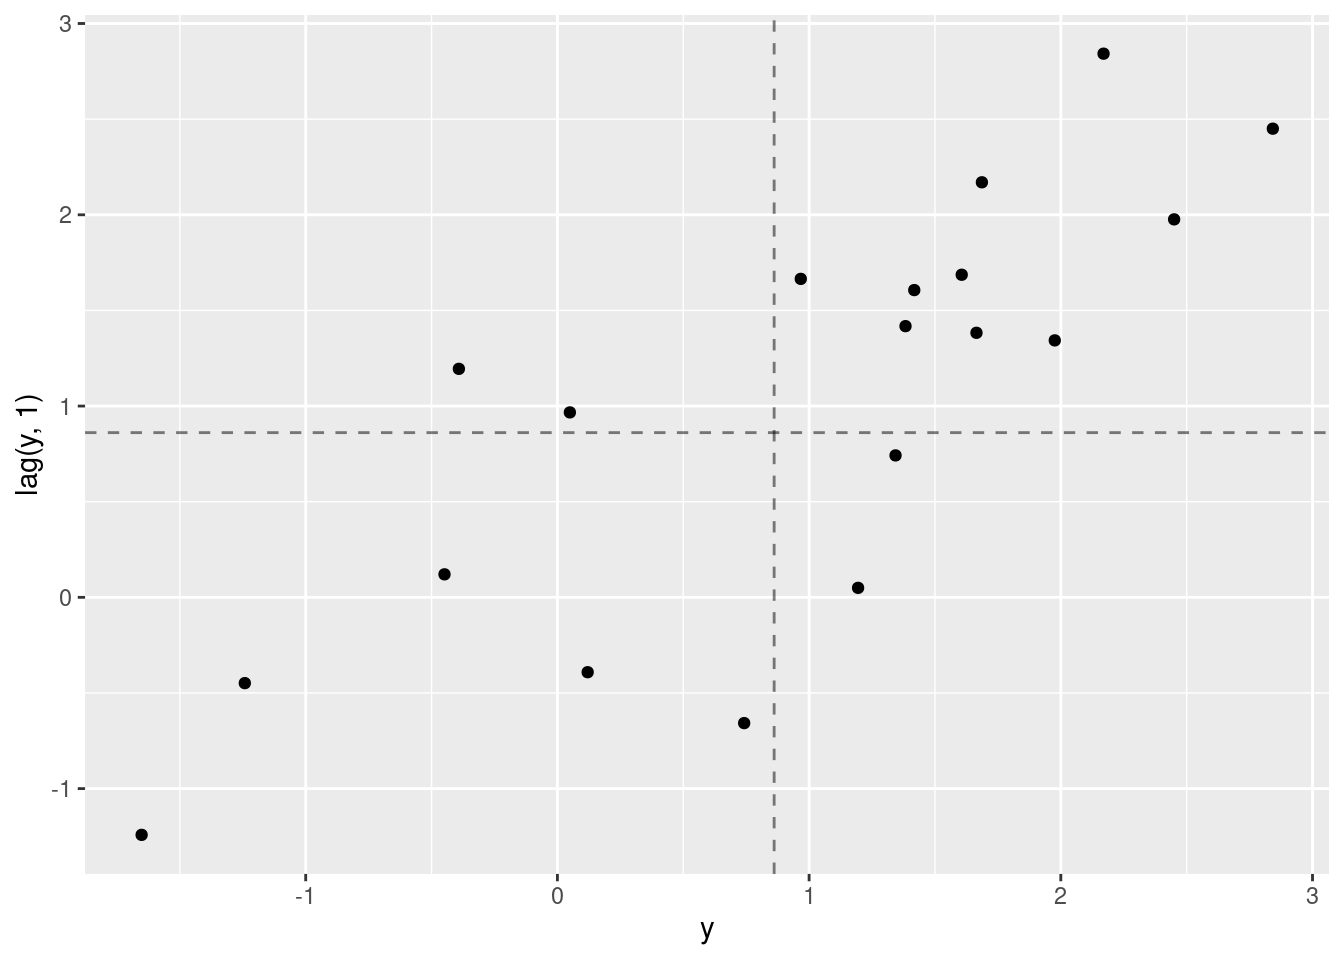
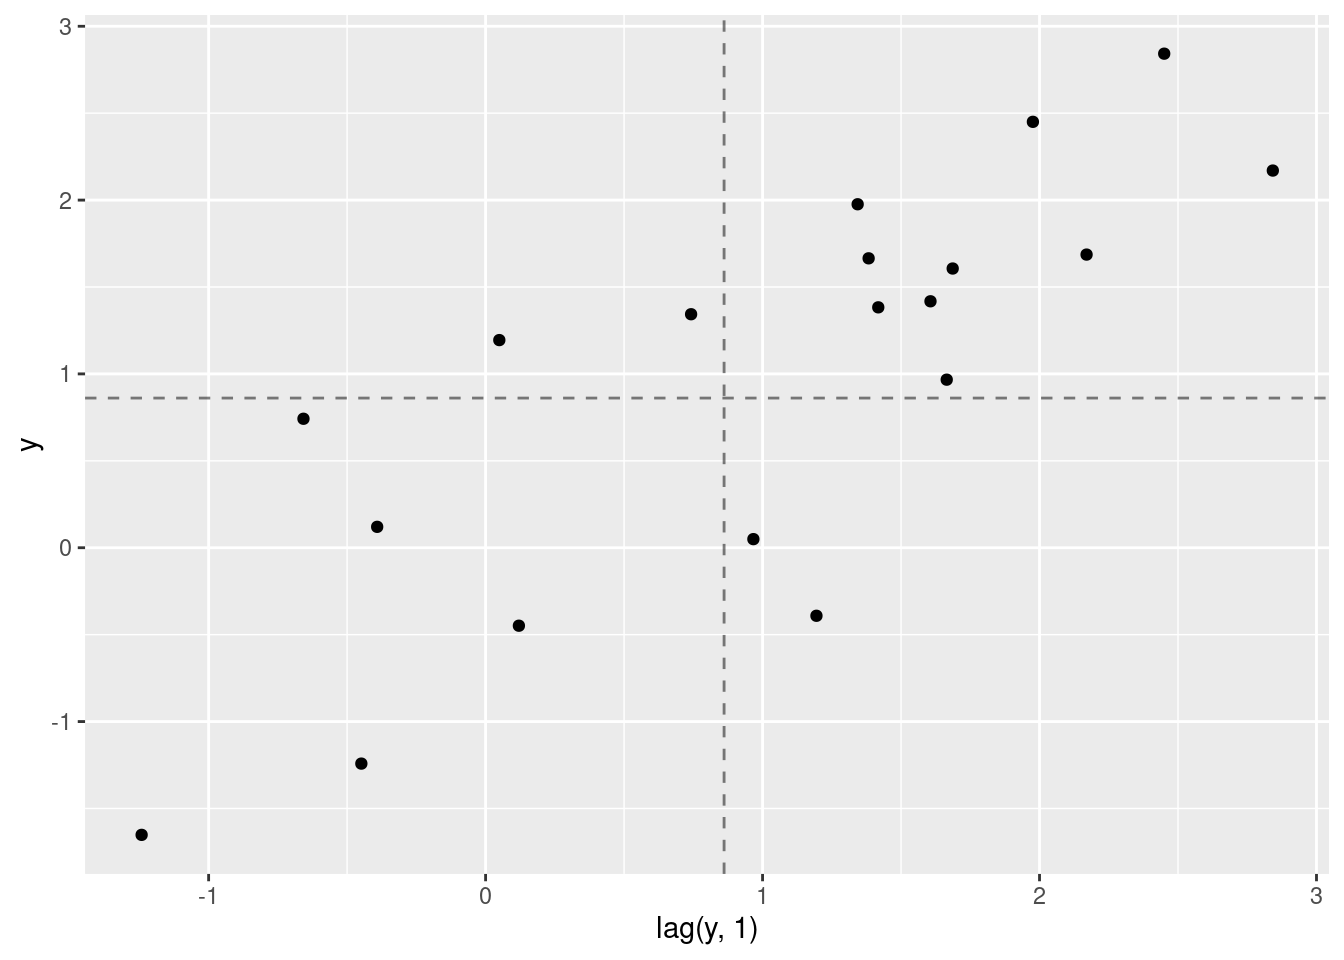
Add cor exercise, fix lat plots.

diff --git a/docs/02-Statistics-Review.html b/docs/02-Statistics-Review.html
@@ -1000,7 +1000,13 @@ Cov(X, Y) = E(XY).
 <div id="def-correlation" class="theorem definition">
 <p><span class="theorem-title"><strong>Definition 2.2 (Correlation) </strong></span><span class="math display">\[
 \rho(X, Y) = \frac{Cov(X, Y)}{\sqrt{Var(X)Var(Y)}}
+\]</span> It is easy to show that the correlation is bounded between -1 and 1.</p>
+<p><span class="math display">\[
+-1 \leq \rho(X, Y) \leq 1
 \]</span></p>
+</div>
+<div id="exr-corr-proof" class="theorem exercise">
+<p><span class="theorem-title"><strong>Exercise 2.7 (Correlation) </strong></span>Let X be a random variable with, and <span class="math inline">\(Y = a + bX\)</span>. Show that the correlation between <span class="math inline">\(X\)</span> and <span class="math inline">\(Y\)</span> equals one or minus one depending on the sign of <span class="math inline">\(b\)</span>. For simplicity, assume that <span class="math inline">\(E(X) = 0\)</span>.</p>
 </div>
 <div id="thm-covariance-props" class="theorem">
 <p><span class="theorem-title"><strong>Theorem 2.3 (Properties of the Covariance) </strong></span>Let <span class="math inline">\(X\)</span> and <span class="math inline">\(Y\)</span> be random variables and let <span class="math inline">\(a, b \in \mathbb{R}\)</span> be fixed constants.</p>
@@ -1009,7 +1015,7 @@ Var(aX + bY) = a^2 Var(X) + b^2Var(Y) + 2abCov(X, Y)
 \]</span></p>
 </div>
 <div id="exr-covariance" class="theorem exercise">
-<p><span class="theorem-title"><strong>Exercise 2.7 (Covariance) </strong></span>Compute the covariance of <span class="math inline">\(X\)</span> and <span class="math inline">\(Y\)</span> under the joint distributions given in <a href="#tbl-distr-indep">Table&nbsp;<span>2.5</span></a> and <a href="#tbl-distr-dep">Table&nbsp;<span>2.3</span></a>. Use the <code>pxy</code> and <code>pxy_ind</code> tables for these calculations.</p>
+<p><span class="theorem-title"><strong>Exercise 2.8 (Covariance) </strong></span>Compute the covariance of <span class="math inline">\(X\)</span> and <span class="math inline">\(Y\)</span> under the joint distributions given in <a href="#tbl-distr-indep">Table&nbsp;<span>2.5</span></a> and <a href="#tbl-distr-dep">Table&nbsp;<span>2.3</span></a>. Use the <code>pxy</code> and <code>pxy_ind</code> tables for these calculations.</p>
 </div>
 <div class="solution proof">
 <p><span class="proof-title"><em>Solution</em>. </span></p>
@@ -1018,7 +1024,7 @@ Var(aX + bY) = a^2 Var(X) + b^2Var(Y) + 2abCov(X, Y)
 </div>
 </div>
 <div id="exr-covariance-corr" class="theorem exercise">
-<p><span class="theorem-title"><strong>Exercise 2.8 (Variance of Correlated Variables) </strong></span>Compute the variance of <span class="math inline">\(2X - Y\)</span> using the same distributions as in <a href="#exr-covariance">Exercise&nbsp;<span>2.7</span></a>.</p>
+<p><span class="theorem-title"><strong>Exercise 2.9 (Variance of Correlated Variables) </strong></span>Compute the variance of <span class="math inline">\(2X - Y\)</span> using the same distributions as in <a href="#exr-covariance">Exercise&nbsp;<span>2.8</span></a>.</p>
 </div>
 </section>
 <section id="empirical-estimation-of-moments" class="level2" data-number="2.9">
@@ -1155,13 +1161,13 @@ y_t = \sum_{i = 1}^{t}e_i
 <p>Where do you find positive and negative cross-products in the plot?</p>
 <div class="cell">
 <div class="sourceCode cell-code" id="cb54"><pre class="sourceCode r code-with-copy"><code class="sourceCode r"><span id="cb54-1"><a href="#cb54-1" aria-hidden="true" tabindex="-1"></a>dt_sim <span class="sc">%&gt;%</span></span>
-<span id="cb54-2"><a href="#cb54-2" aria-hidden="true" tabindex="-1"></a>  <span class="fu">ggplot</span>(<span class="fu">aes</span>(<span class="at">x =</span> y, <span class="at">y =</span> y_l1)) <span class="sc">+</span></span>
+<span id="cb54-2"><a href="#cb54-2" aria-hidden="true" tabindex="-1"></a>  <span class="fu">ggplot</span>(<span class="fu">aes</span>(<span class="at">x =</span> y_l1, <span class="at">y =</span> y)) <span class="sc">+</span></span>
 <span id="cb54-3"><a href="#cb54-3" aria-hidden="true" tabindex="-1"></a>  <span class="fu">geom_point</span>() <span class="sc">+</span> </span>
 <span id="cb54-4"><a href="#cb54-4" aria-hidden="true" tabindex="-1"></a>  <span class="fu">geom_vline</span>(<span class="at">xintercept=</span>mean_y, <span class="at">lty=</span><span class="dv">2</span>, <span class="at">alpha =</span> <span class="fl">0.5</span>) <span class="sc">+</span> </span>
 <span id="cb54-5"><a href="#cb54-5" aria-hidden="true" tabindex="-1"></a>  <span class="fu">geom_hline</span>(<span class="at">yintercept=</span>mean_y, <span class="at">lty=</span><span class="dv">2</span>, <span class="at">alpha =</span> <span class="fl">0.5</span>) <span class="sc">+</span> </span>
 <span id="cb54-6"><a href="#cb54-6" aria-hidden="true" tabindex="-1"></a>  <span class="fu">labs</span>(</span>
-<span id="cb54-7"><a href="#cb54-7" aria-hidden="true" tabindex="-1"></a>    <span class="at">x =</span> <span class="st">"y"</span>,</span>
-<span id="cb54-8"><a href="#cb54-8" aria-hidden="true" tabindex="-1"></a>    <span class="at">y =</span> <span class="st">"lag(y, 1)"</span></span>
+<span id="cb54-7"><a href="#cb54-7" aria-hidden="true" tabindex="-1"></a>    <span class="at">x =</span> <span class="st">"lag(y, 1)"</span>,</span>
+<span id="cb54-8"><a href="#cb54-8" aria-hidden="true" tabindex="-1"></a>    <span class="at">y =</span> <span class="st">"y"</span></span>
 <span id="cb54-9"><a href="#cb54-9" aria-hidden="true" tabindex="-1"></a>  )</span></code><button title="Copy to Clipboard" class="code-copy-button"><i class="bi"></i></button></pre></div>
 <div class="cell-output cell-output-stderr">
 <pre><code>Warning: Removed 1 rows containing missing values (`geom_point()`).</code></pre>
@@ -1173,19 +1179,14 @@ y_t = \sum_{i = 1}^{t}e_i
 <p>The following code computes the covariance</p>
 <div class="cell">
 <div class="sourceCode cell-code" id="cb56"><pre class="sourceCode r code-with-copy"><code class="sourceCode r"><span id="cb56-1"><a href="#cb56-1" aria-hidden="true" tabindex="-1"></a><span class="co"># Compute the covariance</span></span>
-<span id="cb56-2"><a href="#cb56-2" aria-hidden="true" tabindex="-1"></a>cov_xy <span class="ot">&lt;-</span> <span class="fu">cov</span>(dt_sim<span class="sc">$</span>x, dt_sim<span class="sc">$</span>y)</span>
-<span id="cb56-3"><a href="#cb56-3" aria-hidden="true" tabindex="-1"></a>cov_xy</span></code><button title="Copy to Clipboard" class="code-copy-button"><i class="bi"></i></button></pre></div>
+<span id="cb56-2"><a href="#cb56-2" aria-hidden="true" tabindex="-1"></a><span class="fu">cov</span>(dt_sim<span class="sc">$</span>x, dt_sim<span class="sc">$</span>x_l1, <span class="at">use =</span> <span class="st">"complete.obs"</span>)</span></code><button title="Copy to Clipboard" class="code-copy-button"><i class="bi"></i></button></pre></div>
 <div class="cell-output cell-output-stdout">
-<pre><code>[1] 0.4329484</code></pre>
+<pre><code>[1] -0.1063495</code></pre>
 </div>
-<div class="sourceCode cell-code" id="cb58"><pre class="sourceCode r code-with-copy"><code class="sourceCode r"><span id="cb58-1"><a href="#cb58-1" aria-hidden="true" tabindex="-1"></a><span class="co">#</span></span>
-<span id="cb58-2"><a href="#cb58-2" aria-hidden="true" tabindex="-1"></a>cov_xy <span class="sc">/</span> (<span class="fu">sd</span>(dt_sim<span class="sc">$</span>x) <span class="sc">*</span> <span class="fu">sd</span>(dt_sim<span class="sc">$</span>y))</span></code><button title="Copy to Clipboard" class="code-copy-button"><i class="bi"></i></button></pre></div>
+<div class="sourceCode cell-code" id="cb58"><pre class="sourceCode r code-with-copy"><code class="sourceCode r"><span id="cb58-1"><a href="#cb58-1" aria-hidden="true" tabindex="-1"></a><span class="co"># COmpute the correlation</span></span>
+<span id="cb58-2"><a href="#cb58-2" aria-hidden="true" tabindex="-1"></a><span class="fu">cor</span>(dt_sim<span class="sc">$</span>x, dt_sim<span class="sc">$</span>x_l1, <span class="at">use =</span> <span class="st">"complete.obs"</span>)</span></code><button title="Copy to Clipboard" class="code-copy-button"><i class="bi"></i></button></pre></div>
 <div class="cell-output cell-output-stdout">
-<pre><code>[1] 0.4599497</code></pre>
-</div>
-<div class="sourceCode cell-code" id="cb60"><pre class="sourceCode r code-with-copy"><code class="sourceCode r"><span id="cb60-1"><a href="#cb60-1" aria-hidden="true" tabindex="-1"></a><span class="fu">cor</span>(dt_sim<span class="sc">$</span>x, dt_sim<span class="sc">$</span>y)</span></code><button title="Copy to Clipboard" class="code-copy-button"><i class="bi"></i></button></pre></div>
-<div class="cell-output cell-output-stdout">
-<pre><code>[1] 0.4599497</code></pre>
+<pre><code>[1] -0.1821236</code></pre>
 </div>
 </div>
 <p>Note that <code>cov</code> computes the covariance according to formula <a href="#eq-evar">Equation&nbsp;<span>2.2</span></a>.</p>
@@ -1194,32 +1195,32 @@ y_t = \sum_{i = 1}^{t}e_i
 <h2 data-number="2.10" class="anchored" data-anchor-id="exercises"><span class="header-section-number">2.10</span> Exercises</h2>
 <p>The following code downloads</p>
 <div class="cell">
-<div class="sourceCode cell-code" id="cb62"><pre class="sourceCode r code-with-copy"><code class="sourceCode r"><span id="cb62-1"><a href="#cb62-1" aria-hidden="true" tabindex="-1"></a>bitcoin <span class="ot">&lt;-</span> <span class="fu">getSymbols</span>(</span>
-<span id="cb62-2"><a href="#cb62-2" aria-hidden="true" tabindex="-1"></a>  <span class="st">"BTC-USD"</span>, </span>
-<span id="cb62-3"><a href="#cb62-3" aria-hidden="true" tabindex="-1"></a>  <span class="at">from=</span><span class="st">"2015-01-01"</span>,</span>
-<span id="cb62-4"><a href="#cb62-4" aria-hidden="true" tabindex="-1"></a>  <span class="at">to=</span><span class="st">"2023-01-01"</span>,</span>
-<span id="cb62-5"><a href="#cb62-5" aria-hidden="true" tabindex="-1"></a>  <span class="at">src=</span><span class="st">"yahoo"</span>, </span>
-<span id="cb62-6"><a href="#cb62-6" aria-hidden="true" tabindex="-1"></a>  <span class="at">periodicity=</span><span class="st">"daily"</span>, </span>
-<span id="cb62-7"><a href="#cb62-7" aria-hidden="true" tabindex="-1"></a>  <span class="at">env =</span> <span class="cn">NULL</span>)</span>
-<span id="cb62-8"><a href="#cb62-8" aria-hidden="true" tabindex="-1"></a></span>
-<span id="cb62-9"><a href="#cb62-9" aria-hidden="true" tabindex="-1"></a><span class="fu">names</span>(bitcoin) <span class="ot">&lt;-</span> <span class="fu">c</span>(<span class="st">"Open"</span>, <span class="st">"High"</span>, <span class="st">"Low"</span>, <span class="st">"Close"</span>, <span class="st">"Volume"</span>, <span class="st">"Adjusted"</span>)</span>
-<span id="cb62-10"><a href="#cb62-10" aria-hidden="true" tabindex="-1"></a></span>
-<span id="cb62-11"><a href="#cb62-11" aria-hidden="true" tabindex="-1"></a>bc <span class="ot">&lt;-</span> bitcoin <span class="sc">%&gt;%</span></span>
-<span id="cb62-12"><a href="#cb62-12" aria-hidden="true" tabindex="-1"></a>  <span class="fu">ts_tsibble</span>() <span class="sc">%&gt;%</span></span>
-<span id="cb62-13"><a href="#cb62-13" aria-hidden="true" tabindex="-1"></a>  <span class="fu">pivot_wider</span>(</span>
-<span id="cb62-14"><a href="#cb62-14" aria-hidden="true" tabindex="-1"></a>    <span class="at">names_from =</span> id,</span>
-<span id="cb62-15"><a href="#cb62-15" aria-hidden="true" tabindex="-1"></a>    <span class="at">values_from =</span> value</span>
-<span id="cb62-16"><a href="#cb62-16" aria-hidden="true" tabindex="-1"></a>  )</span></code><button title="Copy to Clipboard" class="code-copy-button"><i class="bi"></i></button></pre></div>
+<div class="sourceCode cell-code" id="cb60"><pre class="sourceCode r code-with-copy"><code class="sourceCode r"><span id="cb60-1"><a href="#cb60-1" aria-hidden="true" tabindex="-1"></a>bitcoin <span class="ot">&lt;-</span> <span class="fu">getSymbols</span>(</span>
+<span id="cb60-2"><a href="#cb60-2" aria-hidden="true" tabindex="-1"></a>  <span class="st">"BTC-USD"</span>, </span>
+<span id="cb60-3"><a href="#cb60-3" aria-hidden="true" tabindex="-1"></a>  <span class="at">from=</span><span class="st">"2015-01-01"</span>,</span>
+<span id="cb60-4"><a href="#cb60-4" aria-hidden="true" tabindex="-1"></a>  <span class="at">to=</span><span class="st">"2023-01-01"</span>,</span>
+<span id="cb60-5"><a href="#cb60-5" aria-hidden="true" tabindex="-1"></a>  <span class="at">src=</span><span class="st">"yahoo"</span>, </span>
+<span id="cb60-6"><a href="#cb60-6" aria-hidden="true" tabindex="-1"></a>  <span class="at">periodicity=</span><span class="st">"daily"</span>, </span>
+<span id="cb60-7"><a href="#cb60-7" aria-hidden="true" tabindex="-1"></a>  <span class="at">env =</span> <span class="cn">NULL</span>)</span>
+<span id="cb60-8"><a href="#cb60-8" aria-hidden="true" tabindex="-1"></a></span>
+<span id="cb60-9"><a href="#cb60-9" aria-hidden="true" tabindex="-1"></a><span class="fu">names</span>(bitcoin) <span class="ot">&lt;-</span> <span class="fu">c</span>(<span class="st">"Open"</span>, <span class="st">"High"</span>, <span class="st">"Low"</span>, <span class="st">"Close"</span>, <span class="st">"Volume"</span>, <span class="st">"Adjusted"</span>)</span>
+<span id="cb60-10"><a href="#cb60-10" aria-hidden="true" tabindex="-1"></a></span>
+<span id="cb60-11"><a href="#cb60-11" aria-hidden="true" tabindex="-1"></a>bc <span class="ot">&lt;-</span> bitcoin <span class="sc">%&gt;%</span></span>
+<span id="cb60-12"><a href="#cb60-12" aria-hidden="true" tabindex="-1"></a>  <span class="fu">ts_tsibble</span>() <span class="sc">%&gt;%</span></span>
+<span id="cb60-13"><a href="#cb60-13" aria-hidden="true" tabindex="-1"></a>  <span class="fu">pivot_wider</span>(</span>
+<span id="cb60-14"><a href="#cb60-14" aria-hidden="true" tabindex="-1"></a>    <span class="at">names_from =</span> id,</span>
+<span id="cb60-15"><a href="#cb60-15" aria-hidden="true" tabindex="-1"></a>    <span class="at">values_from =</span> value</span>
+<span id="cb60-16"><a href="#cb60-16" aria-hidden="true" tabindex="-1"></a>  )</span></code><button title="Copy to Clipboard" class="code-copy-button"><i class="bi"></i></button></pre></div>
 </div>
 <div class="cell">
-<div class="sourceCode cell-code" id="cb63"><pre class="sourceCode r code-with-copy"><code class="sourceCode r"><span id="cb63-1"><a href="#cb63-1" aria-hidden="true" tabindex="-1"></a><span class="co"># Plots the closing exchange rate against the time index</span></span>
-<span id="cb63-2"><a href="#cb63-2" aria-hidden="true" tabindex="-1"></a></span>
-<span id="cb63-3"><a href="#cb63-3" aria-hidden="true" tabindex="-1"></a>bc <span class="sc">%&gt;%</span></span>
-<span id="cb63-4"><a href="#cb63-4" aria-hidden="true" tabindex="-1"></a>  <span class="fu">autoplot</span>(Close) <span class="sc">+</span> </span>
-<span id="cb63-5"><a href="#cb63-5" aria-hidden="true" tabindex="-1"></a>  <span class="fu">labs</span>(</span>
-<span id="cb63-6"><a href="#cb63-6" aria-hidden="true" tabindex="-1"></a>    <span class="at">x =</span> <span class="st">"Date"</span>,</span>
-<span id="cb63-7"><a href="#cb63-7" aria-hidden="true" tabindex="-1"></a>    <span class="at">y =</span> <span class="st">"USD/BTC"</span></span>
-<span id="cb63-8"><a href="#cb63-8" aria-hidden="true" tabindex="-1"></a>  )</span></code><button title="Copy to Clipboard" class="code-copy-button"><i class="bi"></i></button></pre></div>
+<div class="sourceCode cell-code" id="cb61"><pre class="sourceCode r code-with-copy"><code class="sourceCode r"><span id="cb61-1"><a href="#cb61-1" aria-hidden="true" tabindex="-1"></a><span class="co"># Plots the closing exchange rate against the time index</span></span>
+<span id="cb61-2"><a href="#cb61-2" aria-hidden="true" tabindex="-1"></a></span>
+<span id="cb61-3"><a href="#cb61-3" aria-hidden="true" tabindex="-1"></a>bc <span class="sc">%&gt;%</span></span>
+<span id="cb61-4"><a href="#cb61-4" aria-hidden="true" tabindex="-1"></a>  <span class="fu">autoplot</span>(Close) <span class="sc">+</span> </span>
+<span id="cb61-5"><a href="#cb61-5" aria-hidden="true" tabindex="-1"></a>  <span class="fu">labs</span>(</span>
+<span id="cb61-6"><a href="#cb61-6" aria-hidden="true" tabindex="-1"></a>    <span class="at">x =</span> <span class="st">"Date"</span>,</span>
+<span id="cb61-7"><a href="#cb61-7" aria-hidden="true" tabindex="-1"></a>    <span class="at">y =</span> <span class="st">"USD/BTC"</span></span>
+<span id="cb61-8"><a href="#cb61-8" aria-hidden="true" tabindex="-1"></a>  )</span></code><button title="Copy to Clipboard" class="code-copy-button"><i class="bi"></i></button></pre></div>
 <div class="cell-output-display">
 <p><img src="02-Statistics-Review_files/figure-html/unnamed-chunk-33-1.png" class="img-fluid" width="672"></p>
 </div>
@@ -1228,44 +1229,44 @@ y_t = \sum_{i = 1}^{t}e_i
 <li>Compute the average exchange rate (<code>Close</code>).</li>
 </ol>
 <div class="cell">
-<div class="sourceCode cell-code" id="cb64"><pre class="sourceCode r code-with-copy"><code class="sourceCode r"><span id="cb64-1"><a href="#cb64-1" aria-hidden="true" tabindex="-1"></a><span class="co"># Type your code here</span></span></code><button title="Copy to Clipboard" class="code-copy-button"><i class="bi"></i></button></pre></div>
+<div class="sourceCode cell-code" id="cb62"><pre class="sourceCode r code-with-copy"><code class="sourceCode r"><span id="cb62-1"><a href="#cb62-1" aria-hidden="true" tabindex="-1"></a><span class="co"># Type your code here</span></span></code><button title="Copy to Clipboard" class="code-copy-button"><i class="bi"></i></button></pre></div>
 </div>
 <ol start="2" type="1">
 <li>Compute the empirical variance using the <code>var</code> function</li>
 </ol>
 <div class="cell">
-<div class="sourceCode cell-code" id="cb65"><pre class="sourceCode r code-with-copy"><code class="sourceCode r"><span id="cb65-1"><a href="#cb65-1" aria-hidden="true" tabindex="-1"></a><span class="co"># Type your code here</span></span></code><button title="Copy to Clipboard" class="code-copy-button"><i class="bi"></i></button></pre></div>
+<div class="sourceCode cell-code" id="cb63"><pre class="sourceCode r code-with-copy"><code class="sourceCode r"><span id="cb63-1"><a href="#cb63-1" aria-hidden="true" tabindex="-1"></a><span class="co"># Type your code here</span></span></code><button title="Copy to Clipboard" class="code-copy-button"><i class="bi"></i></button></pre></div>
 </div>
 <ol start="3" type="1">
 <li>Construct a two new variables that contain the first and the second lags of <code>Close</code>. Leave only <code>Close</code> and its lags in the resulting tsibble. Hint: Use the <code>mutate</code> and <code>lag</code> functions and select the columns using <code>select</code>.</li>
 </ol>
 <div class="cell">
-<div class="sourceCode cell-code" id="cb66"><pre class="sourceCode r code-with-copy"><code class="sourceCode r"><span id="cb66-1"><a href="#cb66-1" aria-hidden="true" tabindex="-1"></a><span class="co"># Type your code here</span></span>
-<span id="cb66-2"><a href="#cb66-2" aria-hidden="true" tabindex="-1"></a><span class="co"># Select the code below and press Ctrl-Shift-c in order to remove the comments</span></span></code><button title="Copy to Clipboard" class="code-copy-button"><i class="bi"></i></button></pre></div>
+<div class="sourceCode cell-code" id="cb64"><pre class="sourceCode r code-with-copy"><code class="sourceCode r"><span id="cb64-1"><a href="#cb64-1" aria-hidden="true" tabindex="-1"></a><span class="co"># Type your code here</span></span>
+<span id="cb64-2"><a href="#cb64-2" aria-hidden="true" tabindex="-1"></a><span class="co"># Select the code below and press Ctrl-Shift-c in order to remove the comments</span></span></code><button title="Copy to Clipboard" class="code-copy-button"><i class="bi"></i></button></pre></div>
 </div>
 <ol start="4" type="1">
 <li>Create a scatterplot for <code>Close</code> and its first lag. Hint: Use the code generating the scatterplot in the simulation above and adapt it.</li>
 </ol>
 <div class="cell">
-<div class="sourceCode cell-code" id="cb67"><pre class="sourceCode r code-with-copy"><code class="sourceCode r"><span id="cb67-1"><a href="#cb67-1" aria-hidden="true" tabindex="-1"></a><span class="co"># Type your code here</span></span></code><button title="Copy to Clipboard" class="code-copy-button"><i class="bi"></i></button></pre></div>
+<div class="sourceCode cell-code" id="cb65"><pre class="sourceCode r code-with-copy"><code class="sourceCode r"><span id="cb65-1"><a href="#cb65-1" aria-hidden="true" tabindex="-1"></a><span class="co"># Type your code here</span></span></code><button title="Copy to Clipboard" class="code-copy-button"><i class="bi"></i></button></pre></div>
 </div>
 <ol start="5" type="1">
 <li>Compute the covariance between <code>Close</code> and its first lag. Compute the autocorrelation coefficient (empirical autocorrelation) between <code>Close</code> and its first lag. Hint: Look into the documentation of <code>cov</code> and <code>cor</code> to find out how to handle missing values.</li>
 </ol>
 <div class="cell">
-<div class="sourceCode cell-code" id="cb68"><pre class="sourceCode r code-with-copy"><code class="sourceCode r"><span id="cb68-1"><a href="#cb68-1" aria-hidden="true" tabindex="-1"></a><span class="co"># Type your code here</span></span></code><button title="Copy to Clipboard" class="code-copy-button"><i class="bi"></i></button></pre></div>
+<div class="sourceCode cell-code" id="cb66"><pre class="sourceCode r code-with-copy"><code class="sourceCode r"><span id="cb66-1"><a href="#cb66-1" aria-hidden="true" tabindex="-1"></a><span class="co"># Type your code here</span></span></code><button title="Copy to Clipboard" class="code-copy-button"><i class="bi"></i></button></pre></div>
 </div>
 <ol start="6" type="1">
 <li>Use the <code>gg_lag</code> function to create scatterplots for the between the time series and its first six lags. What patterns can you see in these scatterplots?</li>
 </ol>
 <div class="cell">
-<div class="sourceCode cell-code" id="cb69"><pre class="sourceCode r code-with-copy"><code class="sourceCode r"><span id="cb69-1"><a href="#cb69-1" aria-hidden="true" tabindex="-1"></a>bc <span class="sc">%&gt;%</span></span>
-<span id="cb69-2"><a href="#cb69-2" aria-hidden="true" tabindex="-1"></a>  <span class="fu">gg_lag</span>(</span>
-<span id="cb69-3"><a href="#cb69-3" aria-hidden="true" tabindex="-1"></a>    Close, </span>
-<span id="cb69-4"><a href="#cb69-4" aria-hidden="true" tabindex="-1"></a>    <span class="at">lags =</span> <span class="dv">1</span><span class="sc">:</span><span class="dv">6</span>, </span>
-<span id="cb69-5"><a href="#cb69-5" aria-hidden="true" tabindex="-1"></a>    <span class="at">geom=</span><span class="st">"point"</span>, </span>
-<span id="cb69-6"><a href="#cb69-6" aria-hidden="true" tabindex="-1"></a>    <span class="at">size =</span> <span class="fl">0.5</span></span>
-<span id="cb69-7"><a href="#cb69-7" aria-hidden="true" tabindex="-1"></a>  )</span></code><button title="Copy to Clipboard" class="code-copy-button"><i class="bi"></i></button></pre></div>
+<div class="sourceCode cell-code" id="cb67"><pre class="sourceCode r code-with-copy"><code class="sourceCode r"><span id="cb67-1"><a href="#cb67-1" aria-hidden="true" tabindex="-1"></a>bc <span class="sc">%&gt;%</span></span>
+<span id="cb67-2"><a href="#cb67-2" aria-hidden="true" tabindex="-1"></a>  <span class="fu">gg_lag</span>(</span>
+<span id="cb67-3"><a href="#cb67-3" aria-hidden="true" tabindex="-1"></a>    Close, </span>
+<span id="cb67-4"><a href="#cb67-4" aria-hidden="true" tabindex="-1"></a>    <span class="at">lags =</span> <span class="dv">1</span><span class="sc">:</span><span class="dv">6</span>, </span>
+<span id="cb67-5"><a href="#cb67-5" aria-hidden="true" tabindex="-1"></a>    <span class="at">geom=</span><span class="st">"point"</span>, </span>
+<span id="cb67-6"><a href="#cb67-6" aria-hidden="true" tabindex="-1"></a>    <span class="at">size =</span> <span class="fl">0.5</span></span>
+<span id="cb67-7"><a href="#cb67-7" aria-hidden="true" tabindex="-1"></a>  )</span></code><button title="Copy to Clipboard" class="code-copy-button"><i class="bi"></i></button></pre></div>
 <div class="cell-output-display">
 <p><img src="02-Statistics-Review_files/figure-html/unnamed-chunk-39-1.png" class="img-fluid" width="672"></p>
 </div>
@@ -1274,7 +1275,7 @@ y_t = \sum_{i = 1}^{t}e_i
 <li>Use the <code>acf</code> function to plot the autocorrelation function of the <code>Close</code> time series.</li>
 </ol>
 <div class="cell">
-<div class="sourceCode cell-code" id="cb70"><pre class="sourceCode r code-with-copy"><code class="sourceCode r"><span id="cb70-1"><a href="#cb70-1" aria-hidden="true" tabindex="-1"></a><span class="co"># Type your code here</span></span></code><button title="Copy to Clipboard" class="code-copy-button"><i class="bi"></i></button></pre></div>
+<div class="sourceCode cell-code" id="cb68"><pre class="sourceCode r code-with-copy"><code class="sourceCode r"><span id="cb68-1"><a href="#cb68-1" aria-hidden="true" tabindex="-1"></a><span class="co"># Type your code here</span></span></code><button title="Copy to Clipboard" class="code-copy-button"><i class="bi"></i></button></pre></div>
 </div>
 
 
